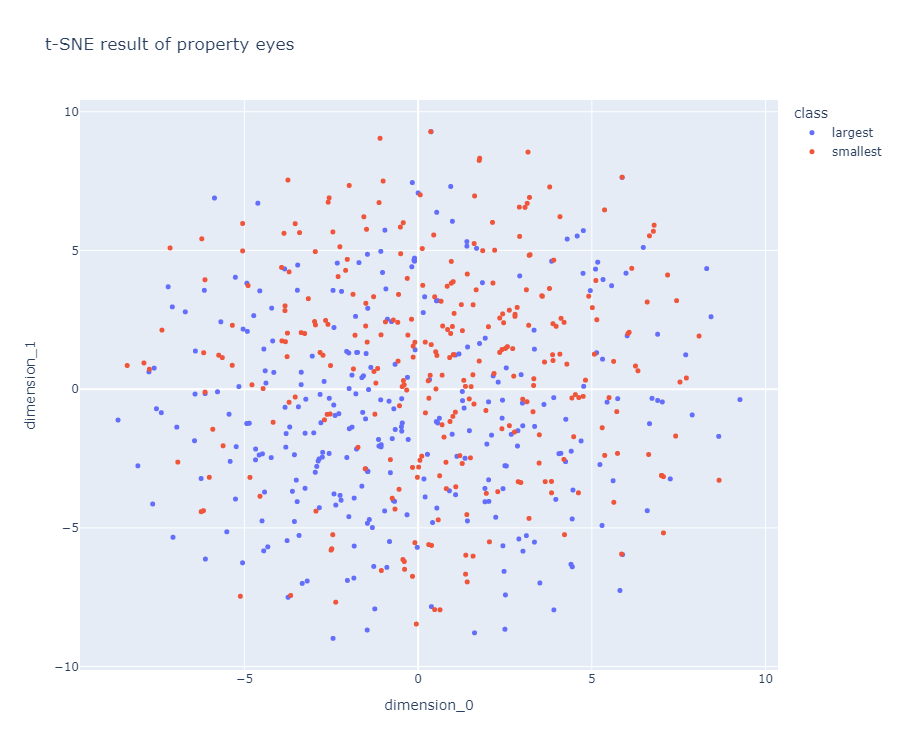
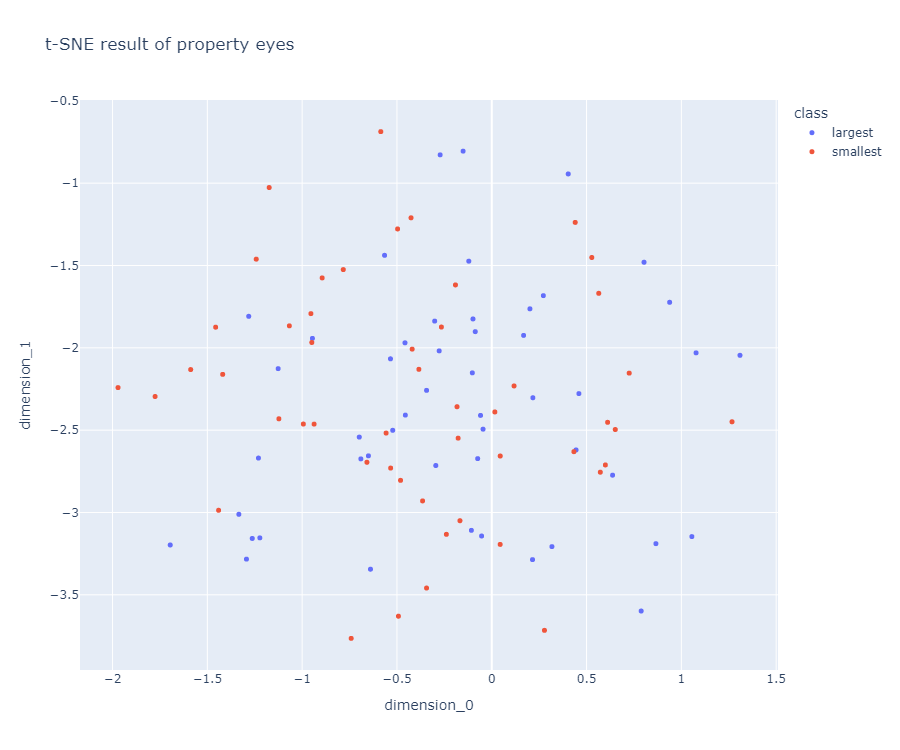
ADD: find property score vector

diff --git a/2025_05_02_OhLoRA_v2/stylegan/stylegan_vectorfind_v6/run_vector_find.py b/2025_05_02_OhLoRA_v2/stylegan/stylegan_vectorfind_v6/run_vector_find.py
@@ -35,7 +35,7 @@ BATCH_SIZE = 20
 #                                    'mouth_cnn_score': list(float),
 #                                    'pose_cnn_score': list(float)}
 
-def sample_z_and_compute_property_scores(finetune_v1_generator, property_score_cnn, n=60000):
+def sample_z_and_compute_property_scores(finetune_v1_generator, property_score_cnn, n=3000):
     save_dir = f'{PROJECT_DIR_PATH}/stylegan/stylegan_vectorfind_v6/inference_test_during_training'
 
     z = np.random.normal(0, 1, size=(n, ORIGINAL_HIDDEN_DIMS_Z)).astype(np.float64)
@@ -101,7 +101,7 @@ def sample_z_and_compute_property_scores(finetune_v1_generator, property_score_c
 #                          'mouth_largest': list(int), 'mouth_smallest': list(int),
 #                          'pose_largest': list(int), 'pose_smallest': list(int)}
 
-def extract_best_and_worst_k_images(property_scores, k=300):
+def extract_best_and_worst_k_images(property_scores, k=50):
 
     # sort scores with index
     eyes_cnn_scores_with_idx = []
@@ -166,9 +166,9 @@ def run_tsne(latent_vectors, indices_info):
         # run t-SNE
         print(f'running t-SNE for {property_name} ...')
         tsne_result = TSNE(n_components=2,
-                           perplexity=25,
+                           perplexity=50,
                            learning_rate=100,
-                           n_iter=500,
+                           n_iter=1000,
                            random_state=2025).fit_transform(indexed_latent_vectors)
 
         # save t-SNE plot result images
@@ -266,15 +266,13 @@ def train_svm(latent_vectors, indices_info):
     return svm_classifiers
 
 
-# SVM 을 이용하여 핵심 속성 값의 변화를 나타내는 latent z vector 를 도출
+# SVM 을 이용하여 핵심 속성 값의 변화를 나타내는 latent z vector 를 도출 (최종 z vector)
 # Create Date : 2025.05.06
 # Last Update Date : -
 
 # Arguments:
 # - svm_classifiers       (dict(SVM)) : 학습된 SVM (Support Vector Machine)
 #                                       {'eyes': SVM, 'mouth': SVM, 'pose': SVM}
-# - finetune_v1_generator (nn.Module) : StyleGAN-FineTune-v1 의 Generator
-# - property_score_cnn    (nn.Module) : 핵심 속성 값 계산용 CNN 모델
 
 # Returns:
 # - property_score_vectors (dict) : 핵심 속성 값의 변화를 나타내는 latent z vector
@@ -282,8 +280,20 @@ def train_svm(latent_vectors, indices_info):
 #                                    'mouth_vector': Numpy array,
 #                                    'pose_vector': Numpy array}
 
-def find_property_score_vectors(svm_classifiers, finetune_v1_generator, property_score_cnn):
-    raise NotImplementedError
+def find_property_score_vectors(svm_classifiers):
+    property_names = ['eyes', 'mouth', 'pose']
+    dim = ORIGINAL_HIDDEN_DIMS_Z + ORIGINALLY_PROPERTY_DIMS_Z
+
+    property_score_vectors = {}
+
+    for property_name in property_names:
+        classifier = svm_classifiers[property_name]
+        direction = classifier.coef_.reshape(1, dim).astype(np.float32)
+        direction = direction / np.linalg.norm(direction)
+
+        property_score_vectors[f'{property_name}_vector'] = direction
+
+    return property_score_vectors
 
 
 # 핵심 속성 값의 변화를 나타내는 latent z vector 에 대한 정보 저장
@@ -319,8 +329,8 @@ def run_stylegan_vector_find(finetune_v1_generator, device):
     indices_info = extract_best_and_worst_k_images(property_scores)
     run_tsne(latent_vectors, indices_info)
 
-    # SVM 학습 & 해당 SVM 으로 핵심 속성 값의 변화를 나타내는 latent z vector 도출
+    # SVM 학습 & 해당 SVM 으로 핵심 속성 값의 변화를 나타내는 최종 latent z vector 도출
     svm_classifiers = train_svm(latent_vectors, indices_info)
-    property_score_vectors = find_property_score_vectors(svm_classifiers, finetune_v1_generator, property_score_cnn)
+    property_score_vectors = find_property_score_vectors(svm_classifiers)
 
     save_property_score_vectors_info(property_score_vectors)
